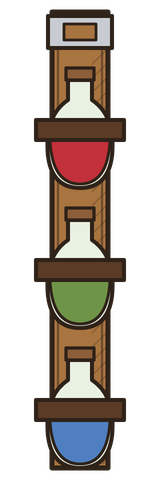
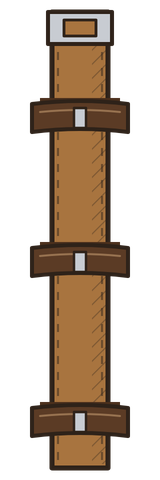
v4.85 补：264 测试跟上包架挪位；药水带换空皮环
Claude-Session: https://claude.ai/code/session_018nu316eEhzvyxZFyrEBn2i

Changed region(s): [[0.1875, 0.0312, 0.8125, 1.0], [0.6875, 0.0, 0.7188, 0.0312], [0.2812, 0.0, 0.3125, 0.0312]]

diff --git a/docs/architecture.md b/docs/architecture.md
@@ -4502,7 +4502,7 @@ res://
 | v4.82 | 2026-10-30 | 268 测试 v4.81：出售单【全选 / 全不选】只动筛中的（`WarehousePages.select_matching` 不先清空、新 `deselect_matching`），筛选外已勾的留着；悬浮窗【出售】/【出售同类 ×n】的价钱改金币小图 + 数字（`Action.coin`，`act.sell` / `act.sell_same` 不再写「币」） |
 | v4.83 | 2026-10-30 | 家的木牌键按下换 UI替换美术 press_home A（作者 18:07）：`home/btn_wood_pressed` 深胡桃木平涂；`BUTTON_HOME` / `BUTTON_HOME_PRIMARY` 按下字色 `HOME_PRESSED_INK` #f6ecd2，木牌下拉开着时同（`dress_wood_option`）；【快速出售】按下不再发白；268 勾选角标定稿 B 金币勾（美术设计，作者 18:06）：`assets/ui/tip/check_badge(_2x).png`，代码画的占位勾只在图缺时用 |
 | v4.84 | 2026-10-30 | press_home A 补（UI替换美术核对 v4.83）：木牌下拉开着时箭头换同形浅色 `kit/drop_arrow_pressed`（#f6ecd2），合上换回 `kit/drop_arrow`（`dress_wood_option` 接弹出单 about_to_popup / popup_hide）；石刻下拉不动 |
-| v4.85 | 2026-10-31 | 268 补充二（作者 10-31 11:25）：包架独立成窄架（`MetaScreen._rack_col`，挂牌「包架」），贴右边仓库棋盘左边、框顶齐平，右半边加宽 `rack_room()`、仓库格子不缩（中列放不下时才让，`middle_need()`；带回来的背包最小格 `BOARD_CELL_MIN` 34）；中列窄布只剩 筛选牌 /【快速出售】/【整理】；出售单 `SellSheet` 删，换成键下面的出售条 `SellStrip`（228 宽，已选 N 件 · 金币 / 全选 / 两步出售 + 取消），筛选用筛选牌的（`WarehousePages.filter_changed`），模式里筛选牌照常可用、包架和带回来的背包都不收 |
+| v4.85 | 2026-10-31 | 268 补充二（作者 10-31 11:25）：包架独立成窄架（`MetaScreen._rack_col`，挂牌「包架」），贴右边仓库棋盘左边、框顶齐平，右半边加宽 `rack_room()`、仓库格子不缩（中列放不下时才让，`middle_need()`；带回来的背包最小格 `BOARD_CELL_MIN` 34）；中列窄布只剩 筛选牌 /【快速出售】/【整理】；出售单 `SellSheet` 删，换成键下面的出售条 `SellStrip`（228 宽，已选 N 件 · 金币 / 全选 / 两步出售 + 取消），筛选用筛选牌的（`WarehousePages.filter_changed`），模式里筛选牌照常可用、包架和带回来的背包都不收；药水带 `belt_potion` 换美术设计 v2 A 空皮环（作者 10-31 11:50） |
 | v4.70 | 2026-10-29 | **260 补充五（作者 10-29 09:03「改成保留小数点后两位，比如15.43k，2.34m，3.1b」，取代补充三、四的罗马数字）**：碑额写 `RecordsStele.compact(v)` —— 1000 以下整数；千起 k、百万起 m、十亿起 b、万亿起 t，两位小数整数算、向下截不进位（999999 → 999.99k），末尾 0 去掉（3100000000 → 3.1b）；0 写「—」，悬停照旧写准数。横线、`roman / numeral_parts / overline_stack` 删掉；基线 = 碑额顶 + 75 + 字号 × 0.375，金币固定 52、中心对准字身中线 |
 | v4.69 | 2026-10-28 | **260 补充四（作者 10-28 18:35「类似现代计数……超过千用K，超过百万用M，超过十亿用B，通过不断增加上划线」，取代补充三）**：`RecordsStele.numeral_parts` 返回 [最高一段的罗马数字, 横线道数]，每 ÷ 1000 加一道、向下取整、后面的段不写（742 → DCCXLII，5414 → V̅，3888888 → 两道线的 III，38 亿 → 三道）；碑额画 k 道横线（线宽 = 字宽，往上每道再空 max(2, 字号 × 0.05)，`overline_stack`），字和横线整块在碑额里竖向居中、金币中心对准字身中线；顺带修掉 v4.68 一百万起千位段一长串 M。**随身技能图标定稿**（作者 18:35「B+C」）：`assets/belt_skills/smoke_bomb.png`（陶罐）、`aid_pack.png`（亚麻小包），60 × 60；`BeltSkillDef.icon()` 把图留在 def 上（腰带在 `_draw` 里每帧画，184） |
 | v4.68 | 2026-10-28 | **260 补充三（作者 10-28 10:15 选 B「只写到千」）**：碑额大数 —— `RecordsStele.numeral_parts` 一万起只写千位段（`[roman(v / 1000), ""]`，向下取整，38888 → X̅X̅X̅V̅I̅I̅I̅），4000～9999 照旧带零头，悬停照旧写准数；金币固定 `WORTH_COIN` 52（不跟字缩，竖向中心在碑额顶 + 75），`worth_width` 金币那项跟着换，字区实宽 330 − 52 − 6；千位段上横线粗 max(2, 字号 × 0.06)，在字头（基线上方字号 × 0.75）再往上留 max(3, 字号 × 0.1) 的缝，不再贴着字头像删除线 |
